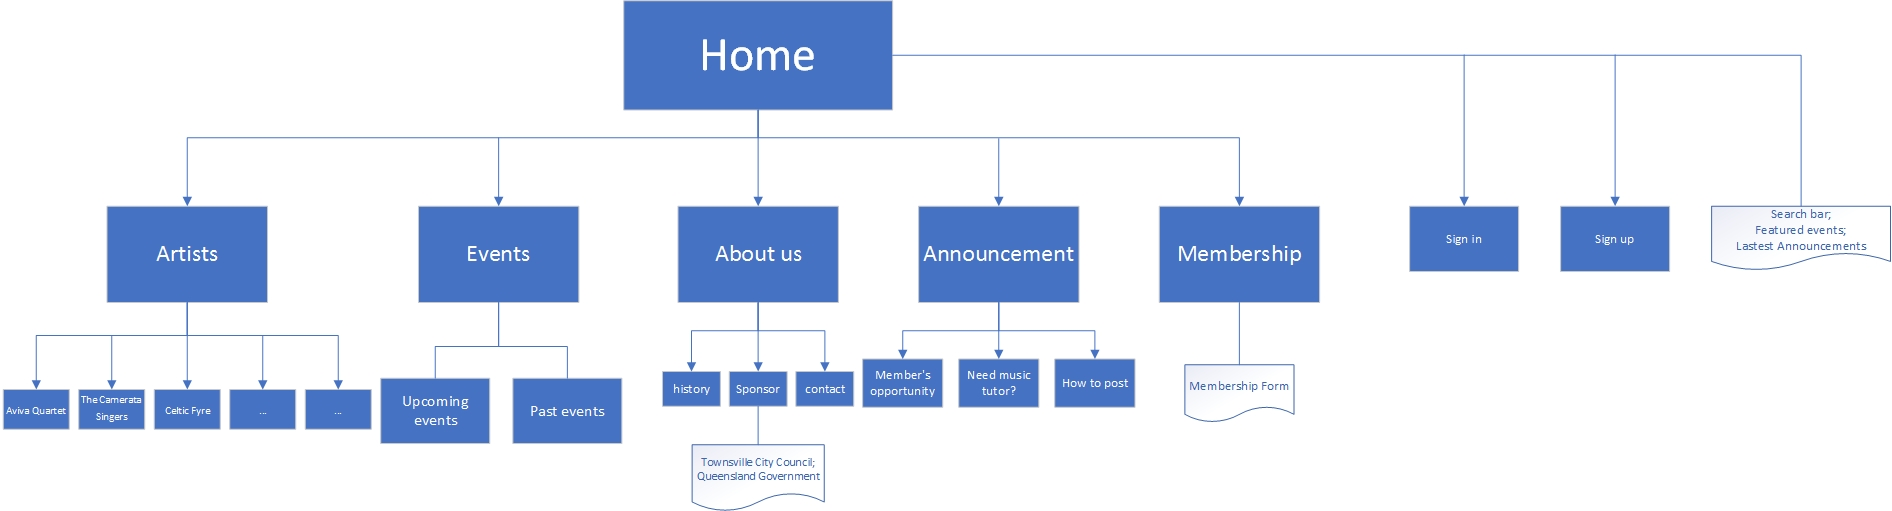
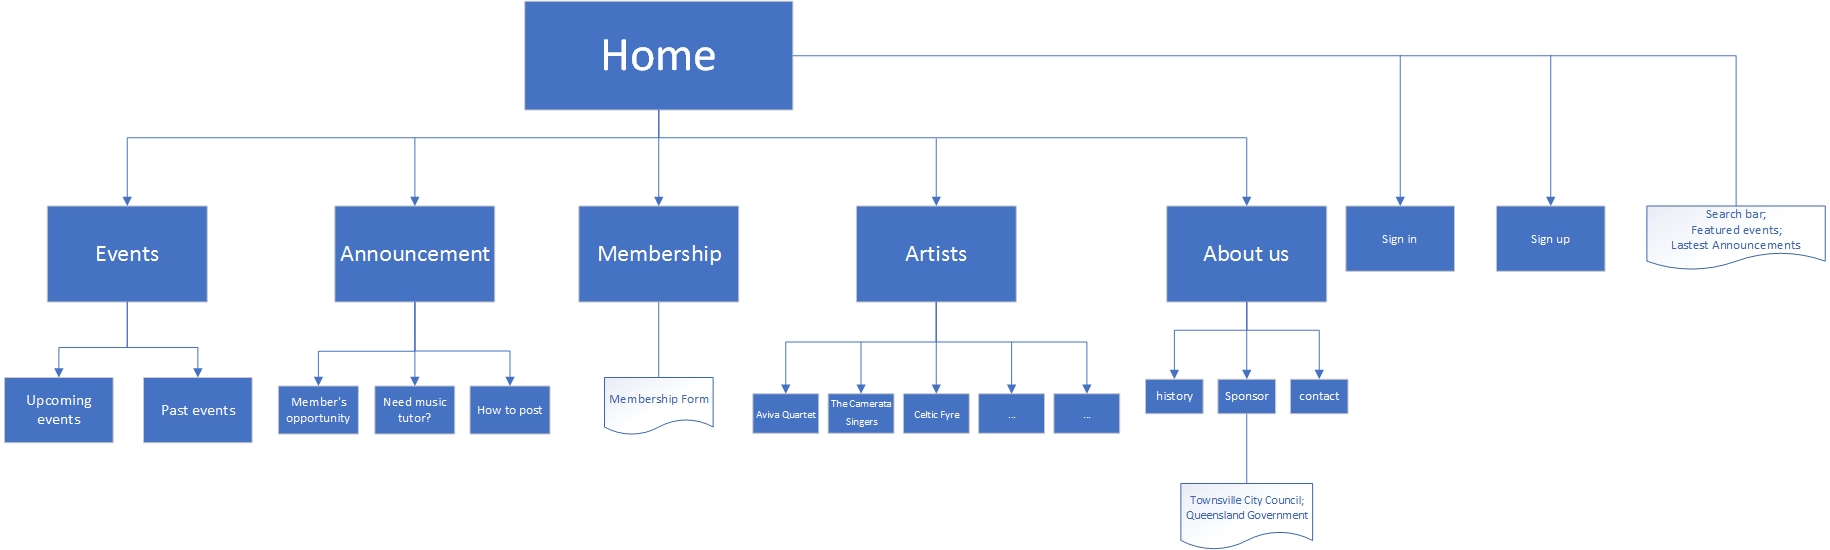
change flow chart
rename comps link

diff --git a/plan.html b/plan.html
@@ -14,19 +14,22 @@
 <h1>CP5638 - 2017 Project Plan</h1>
 <h2>Group 1</h2>
 <p><strong>Members:</strong> </p>
-<p>Tran Thu Ha - jc448750</p>
+<p>Thu Ha Tran - jc448750</p>
 <p>Arushi - jc480381</p>
-<p>Irfan - jc488483</p>
-<p>Lyu Siwen - jc448239</p>
-<p>Membership <br>
-- recruit new members<br>
-- increase engagement of members in our activities, e.g. volunteering for administration, organising and promoting concerts and workshops<br>
-<br>
-Concerts <br>
-- increase ticket sales, especially to the general public. <br>
-- encourage performers to let us organise a concert for them<br>
-- encourage performers to cooperate with promotion, photo shoots, media releases, etc.<br>
-</p>
+<p>Irfan Shaik - jc488483</p>
+<p>Siwen Lyu - jc448239</p>
+<h2>Mission</h2>
+<ol>
+  <li>Membership <br>
+    - recruit new members<br>
+    - increase engagement of members in our activities, e.g. volunteering for administration, organising and promoting concerts and workshops<br>
+    <br></li>
+    <li>Concerts <br>
+    - increase ticket sales, especially to the general public. <br>
+    - encourage performers to let us organise a concert for them<br>
+    - encourage performers to cooperate with promotion, photo shoots, media releases, etc.<br>
+  </li>
+</ol>
 <h2>Success Evaluation</h2>
 <p>The newly designed website will be made public for one month so that the increase in number of members would only be attributed to the refurbished website design .<br>
 At the end of every month, the number of new members and tickets sold will be counted and compared to the previous month's results.</p>

diff --git a/site/celtic_fyre.html b/site/celtic_fyre.html
@@ -41,13 +41,13 @@
     <div id="logo"><a href="index.html"><img class="logo" src="images/logo.jpg" alt=""></a></div>
 <nav>
 		<ul>
-			<li><a href="#">Home</a></li>
-		  <li><a href="#">Events</a></li>
+			<li><a href="#">HOME</a></li>
+		  <li><a href="#">EVENTS</a></li>
 			
-			<li><a href="#">Announcement</a></li>
-			<li><a href="#">Membership</a></li>
-			<li class="active"><a href="#">Artists</a></li>
-			<li><a href="#">About Us</a></li>
+			<li><a href="#">ANNOUNCEMENTS</a></li>
+			<li><a href="#">MEMBERSHIP</a></li>
+			<li class="active"><a href="#">ARTISTS</a></li>
+			<li><a href="#">ABOUT US</a></li>
 			
 			
 		</ul>
